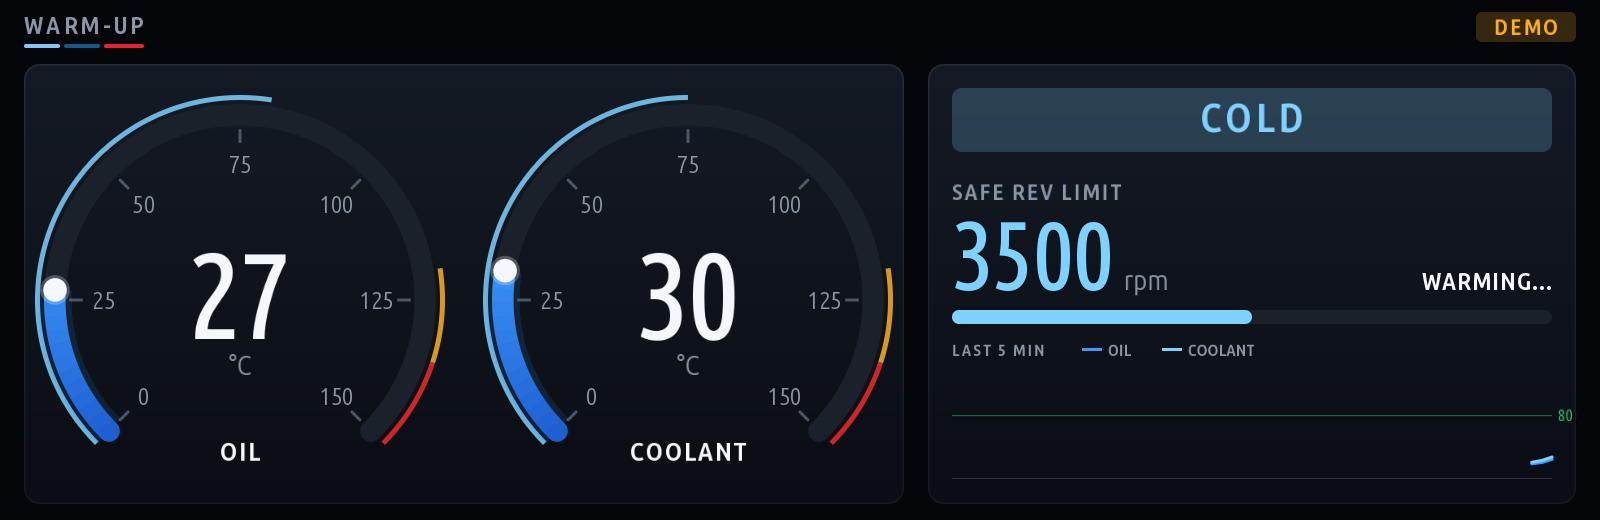
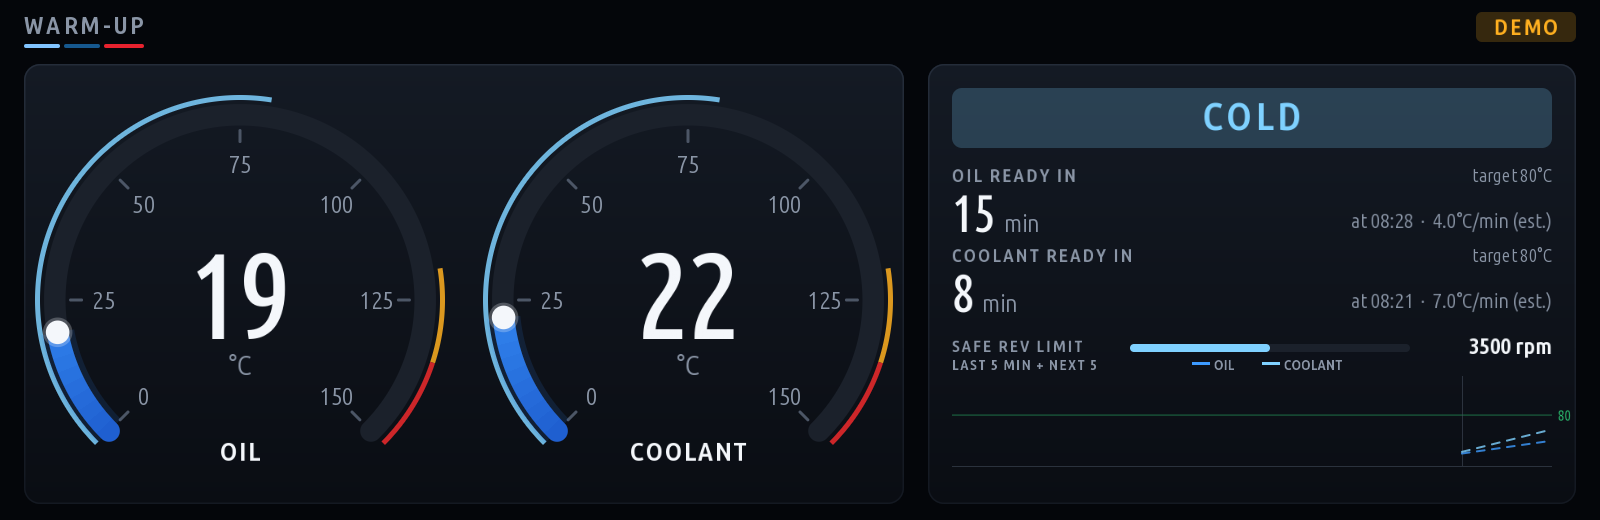
Warm-Up 1.1: warm-up calculator and a turbo cool-down that triggers
- Time to working temperature for oil and coolant (minutes + clock time),
  measured rate blended with typical driving / idle rates for the first
  2 minutes, "engine off" for electric driving, "not warming"; dashed
  projection on the trend graph; new "Coolant is warm at" setting
- Turbo cool-down: hard use = above 3800 rpm or 90 kW (torque x rpm, new
  FES torque signal); 30 s - 3 min of cool-down depending on hard time,
  counts below 2800 rpm / 40 kW, big countdown; oil ETA stays visible
- README: Warm-Up description + screenshot

Claude-Session: https://claude.ai/code/session_01G89YVjbLtqWwckvonFV4nZ

diff --git a/apps/warmup/main.js b/apps/warmup/main.js
@@ -3,11 +3,13 @@
  * Warm-Up - know when the engine is ready to be used, and when it has cooled.
  *
  *   - oil + coolant gauges (oil is what matters: it lags coolant by minutes)
+ *   - warm-up calculator: minutes and clock time until oil / coolant are warm,
+ *     from the measured warm-up rate (typical rates until enough is measured),
+ *     projected on the trend graph; "engine off" when a hybrid drives electric
  *   - safe rev limit that climbs from the cold limit to the redline with oil temp
- *   - ETA to "ready" from the current warm-up rate
  *   - 20-minute temperature trend
- *   - turbo cool-down: after hard driving, counts gentle driving / idle time
- *     before it's kind to switch off
+ *   - turbo cool-down: hard driving (high rpm or high power) builds up a cool-down
+ *     time (30 s - 3 min) that counts down while driving gently or idling
  */
 const mgu = require('./kit/mgu');
 const { Canvas, withAlpha } = require('./kit/canvas');
@@ -16,33 +18,51 @@ const Car = require('./kit/car');
 
 const W = 1600, H = 520;
 const GO = '#2fd27a';
-const COOL_NEED = 60;            // s of gentle running after hard use
+const HARD_RPM = 3800, HARD_KW = 90;       // above either = hard use (heats the turbo)
+const GENTLE_RPM = 2800, GENTLE_KW = 40;   // below both = cooling down
+const COOL_MIN = 30, COOL_MAX = 180;       // s of cool-down, growing with the hard-use time
+// typical warm-up rates (deg C / min) until enough has been measured
+const TYPICAL = { oil: { drive: 4, idle: 1.5 }, coolant: { drive: 7, idle: 3 } };
 
 mgu.run({
     async start(ctx) {
-        const { ui, settings, log } = ctx;
-        const car = new Car(ctx, ['rpm', 'speed', 'temps']);
+        const { ui, settings } = ctx;
+        const car = new Car(ctx, ['rpm', 'speed', 'temps', 'torque']);
 
         /* ---------- tracking ---------- */
         const hist = [];             // [t, oil, coolant] every 5 s, 20 min
-        let lastHist = 0, hardMs = 0, lastT = 0, cool = 0, wasHard = 0;
+        let lastHist = 0, lastT = 0;
+        // cool-down: hardS = seconds of hard use; needS = cool-down it asks for; cool = gentle seconds done
+        let hardS = 0, needS = 0, cool = 0, doneAt = 0;
         car.onSample((d, t) => {
-            const dt = lastT ? Math.min(250, t - lastT) : 0; lastT = t;
+            const dt = lastT ? Math.min(250, t - lastT) / 1000 : 0; lastT = t;
             if (G.isNum(d.rpm)) {
-                // "hard" = high revs; decays slowly so one blast doesn't count forever
-                if (d.rpm > 4500) { hardMs += dt; wasHard = t; } else hardMs = Math.max(0, hardMs - dt * 0.1);
-                if (hardMs > 20000 && d.rpm < 2800) cool += dt / 1000; else if (d.rpm >= 3500) cool = 0;
-                if (cool >= COOL_NEED + 30) { hardMs = 0; cool = 0; }
+                const kw = G.isNum(d.torque) ? d.torque * d.rpm / 9549 : 0;
+                const hard = d.rpm > HARD_RPM || kw > HARD_KW;
+                const gentle = d.rpm < GENTLE_RPM && kw < GENTLE_KW;
+                if (hard) {
+                    hardS += dt; cool = 0; doneAt = 0;
+                    if (hardS > 8) needS = G.clamp(COOL_MIN + hardS * 3, COOL_MIN, COOL_MAX);
+                } else if (needS > 0 && gentle) {
+                    cool += dt;
+                    if (cool >= needS && !doneAt) doneAt = t;
+                } else if (!needS) {
+                    hardS = Math.max(0, hardS - dt * 0.2);      // short bursts fade away
+                }
+                // "cooled" message stays for 20 s, then all clear
+                if (doneAt && t - doneAt > 20000) { hardS = 0; needS = 0; cool = 0; doneAt = 0; }
             }
             if (t - lastHist > 5000 && (G.isNum(d.oil) || G.isNum(d.coolant))) {
-                lastHist = t; hist.push([t, d.oil, d.coolant]);
+                lastHist = t; hist.push([t, d.oil, d.coolant, d.rpm, d.speed]);
                 while (hist.length > 240) hist.shift();
             }
-        }, () => { hist.length = 0; hardMs = 0; cool = 0; });
+        }, () => { hist.length = 0; hardS = 0; needS = 0; cool = 0; doneAt = 0; });
 
         const F = () => settings.get('tempUnit') === 'f';
         const T = (c) => (G.isNum(c) ? (F() ? c * 9 / 5 + 32 : c) : null);
         const tU = () => (F() ? '°F' : '°C');
+        const pad = (n) => (n < 10 ? '0' : '') + n;
+        const clock = (ms) => { const x = new Date(ms); return pad(x.getHours()) + ':' + pad(x.getMinutes()); };
 
         function limit(oil) {
             const warm = settings.get('warmOil'), red = settings.get('redline'), cold = Math.min(settings.get('coldLimit'), red);
@@ -51,24 +71,60 @@ mgu.run({
             return Math.round((cold + (red - cold) * G.clamp((oil - 30) / (warm - 30), 0, 1)) / 100) * 100;
         }
 
-        /** °C per minute over the last ~2 min (least squares). */
-        function rate(idx) {
-            const pts = hist.filter((h) => G.isNum(h[idx]) && hist[hist.length - 1][0] - h[0] < 120000);
-            if (pts.length < 4) return null;
+        /** deg C per minute over the last ~3 min (least squares) and the time it covers (ms). */
+        function measured(idx) {
+            const last = hist.length ? hist[hist.length - 1][0] : 0;
+            const pts = hist.filter((h) => G.isNum(h[idx]) && last - h[0] < 180000);
+            if (pts.length < 4) return { rate: null, span: 0 };
             const n = pts.length, mx = pts.reduce((a, p) => a + p[0], 0) / n, my = pts.reduce((a, p) => a + p[idx], 0) / n;
             let num = 0, den = 0;
             pts.forEach((p) => { num += (p[0] - mx) * (p[idx] - my); den += (p[0] - mx) * (p[0] - mx); });
-            return den ? num / den * 60000 : null;
+            return { rate: den ? num / den * 60000 : null, span: pts[n - 1][0] - pts[0][0] };
+        }
+
+        /**
+         * Warm-up estimate for 'oil' / 'coolant': { state, min, rate, est }.
+         * state: ready | warming | off (engine not running) | stalled (not getting warmer).
+         * The typical rate is blended into the measured one over the first 2 minutes (est = mostly typical).
+         */
+        function eta(key, temp, target, d) {
+            if (!G.isNum(temp)) return { state: 'none' };
+            if (temp >= target) return { state: 'ready' };
+            if (G.isNum(d.rpm) && d.rpm < 300) return { state: 'off' };
+            const m = measured(key === 'oil' ? 1 : 2);
+            const typ = TYPICAL[key][G.isNum(d.speed) && d.speed > 10 ? 'drive' : 'idle'];
+            const w = G.clamp(m.span / 120000, 0, 1);
+            const rate = G.isNum(m.rate) ? w * m.rate + (1 - w) * typ : typ;
+            if (w > 0.8 && rate < 0.15) return { state: 'stalled', rate };
+            const min = (target - temp) / Math.max(0.15, rate);
+            return { state: 'warming', min, rate, est: w < 0.5 };
         }
 
         /* ---------- drawing ---------- */
         function gauge(cv, t, cx, cy, r, val, label, warm) {
-            const toU = (c) => T(c);
             G.radial(cv, t, cx, cy, r, {
-                value: toU(val), min: toU(0), max: toU(150), label, unit: tU(), decimals: 0, ticks: 6, majorEvery: 1,
-                zones: [{ from: toU(0), to: toU(warm - 0.01), color: 'cold' }, { from: toU(120), to: toU(135), color: 'warn' }, { from: toU(135), to: toU(150), color: 'crit' }],
+                value: T(val), min: T(0), max: T(150), label, unit: tU(), decimals: 0, ticks: 6, majorEvery: 1,
+                zones: [{ from: T(0), to: T(warm - 0.01), color: 'cold' }, { from: T(120), to: T(135), color: 'warn' }, { from: T(135), to: T(150), color: 'crit' }],
                 tickLabels: true,
             });
+        }
+
+        /** One "ready in" row: label, big minutes, clock time + rate on the right. */
+        function etaRow(cv, t, y, label, e, target) {
+            cv.text(label, 952, y, 18, t.dim, { font: 'bold', spacing: 2 });
+            let big, col = t.text, right = '', unit = '';
+            if (e.state === 'ready') { big = 'READY'; col = GO; }
+            else if (e.state === 'off') { big = 'ENGINE OFF'; col = t.dim; right = 'not warming (electric driving)'; }
+            else if (e.state === 'stalled') { big = 'NOT WARMING'; col = t.warn; right = 'drive to warm up faster'; }
+            else if (e.state === 'warming') {
+                big = e.min > 60 ? '>60' : '~' + Math.max(1, Math.round(e.min)); unit = 'min';
+                right = 'at ' + clock(Date.now() + e.min * 60000) + '  ·  ' + (F() ? e.rate * 1.8 : e.rate).toFixed(1) + tU() + '/min' + (e.est ? ' (est.)' : '');
+            } else { big = '--'; col = t.dim; }
+            // the large number font has digits and a few letters only: words in bold, minutes in num + 'min'
+            const bw = cv.text(big, 952, y + 50, unit ? 52 : 40, col, { font: unit || big === '--' ? 'num' : 'bold', spacing: unit ? 0 : 1 });
+            if (unit) cv.text(unit, 960 + bw, y + 50, 24, t.dim);
+            if (right) cv.text(right, 1552, y + 46, 20, t.dim, { align: 'right' });
+            cv.text('target ' + Math.round(T(target)) + tU(), 1552, y, 18, t.dim, { align: 'right' });
         }
 
         function render() {
@@ -80,69 +136,89 @@ mgu.run({
                 cv.roundRect(W - 124, 12, 100, 30, 6, withAlpha(t.warn, 0.2));
                 cv.text('DEMO', W - 74, 35, 22, t.warn, { align: 'center', font: 'bold', spacing: 2 });
             }
-            const warm = settings.get('warmOil');
+            const warm = settings.get('warmOil'), warmC = settings.get('warmCoolant');
             G.panel(cv, t, 24, 64, 880, 440, null);
             gauge(cv, t, 240, 300, 196, d.oil, 'Oil', warm);
-            gauge(cv, t, 688, 300, 196, d.coolant, 'Coolant', 75);
+            gauge(cv, t, 688, 300, 196, d.coolant, 'Coolant', warmC);
 
             // ---- status panel
             G.panel(cv, t, 928, 64, 648, 440, null);
             const lim = limit(d.oil);
             const ready = G.isNum(d.oil) && d.oil >= warm;
             const hot = G.isNum(d.oil) && d.oil > 125;
-            const cooling = settings.get('cooldown') && hardMs > 20000;
+            const cooling = settings.get('cooldown') && needS > 0;
             let st, col;
             if (!G.isNum(d.oil)) { st = 'NO OIL TEMP'; col = t.dim; }
             else if (hot) { st = 'OIL HOT - EASE OFF'; col = t.crit; }
-            else if (cooling) { st = cool >= COOL_NEED ? 'COOLED - OK TO SWITCH OFF' : 'COOL DOWN'; col = cool >= COOL_NEED ? GO : t.warn; }
+            else if (cooling) { st = doneAt ? 'COOLED - OK TO SWITCH OFF' : 'TURBO COOL-DOWN'; col = doneAt ? GO : t.warn; }
             else if (ready) { st = 'READY'; col = GO; }
             else if (d.oil >= warm - 20) { st = 'WARMING UP'; col = t.warn; }
             else { st = 'COLD'; col = t.cold; }
-            cv.roundRect(952, 88, 600, 64, 10, withAlpha(col, 0.22));
-            if (st === 'READY') cv.roundRect(952, 88, 600, 64, 10, withAlpha(col, 0.15 + 0.1 * Math.sin(now / 400)));
-            cv.text(st, 1252, 132, st.length > 14 ? 30 : 40, col, { align: 'center', font: 'bold', spacing: 3 });
+            cv.roundRect(952, 88, 600, 60, 10, withAlpha(col, 0.22));
+            if (st === 'READY') cv.roundRect(952, 88, 600, 60, 10, withAlpha(col, 0.15 + 0.1 * Math.sin(now / 400)));
+            cv.text(st, 1252, 130, st.length > 14 ? 30 : 38, col, { align: 'center', font: 'bold', spacing: 3 });
 
             if (cooling) {
-                const left = Math.max(0, COOL_NEED - cool);
-                cv.text('GENTLE RUNNING / IDLE', 952, 200, 22, t.dim, { font: 'bold', spacing: 2 });
-                cv.text(left > 0 ? Math.ceil(left) + ' s' : 'done', 952, 290, 96, left > 0 ? t.text : GO, { font: 'num' });
-                cv.text('keep under 2800 rpm to let the turbo and oil cool', 952, 330, 20, t.dim);
+                // big countdown: gentle driving / idling cools the turbo and oil
+                const left = Math.max(0, needS - cool);
+                const gentleNow = G.isNum(d.rpm) && d.rpm < GENTLE_RPM;
+                // the oil warm-up stays visible as one line
+                const eo = eta('oil', d.oil, warm, d);
+                const line = eo.state === 'ready' ? 'Oil warm' : eo.state === 'warming' ? 'Oil ready in ~' + Math.max(1, Math.round(eo.min)) + ' min (at ' + clock(now + eo.min * 60000) + ')'
+                    : eo.state === 'off' ? 'Engine off - oil not warming' : eo.state === 'stalled' ? 'Oil not warming' : '';
+                cv.text(line, 952, 182, 20, eo.state === 'ready' ? GO : t.dim, { font: 'bold' });
+                cv.text('COOL-DOWN LEFT', 952, 216, 18, t.dim, { font: 'bold', spacing: 2 });
+                const lw = cv.text(left > 0 ? String(Math.ceil(left)) : '0', 952, 292, 80, left > 0 ? t.text : GO, { font: 'num' });
+                cv.text('s', 962 + lw, 292, 30, t.dim);
+                cv.text(left > 0 ? (gentleNow ? 'counting - keep it gentle' : 'paused - under ' + GENTLE_RPM + ' rpm to count') : 'done', 1552, 252, 22, left > 0 && !gentleNow ? t.warn : t.text, { align: 'right', font: 'bold' });
+                cv.text('after ' + Math.round(hardS) + ' s of hard driving', 1552, 282, 20, t.dim, { align: 'right' });
+                const f = needS ? G.clamp(cool / needS, 0, 1) : 1;
+                cv.roundRect(952, 306, 600, 12, 6, t.track);
+                if (f > 0) cv.rampRect(952, 306, Math.max(12, 600 * f), 12, 6, [t.warn, GO], 952, 600);
             } else {
-                cv.text('SAFE REV LIMIT', 952, 200, 22, t.dim, { font: 'bold', spacing: 2 });
-                const lw = cv.text(lim ? String(lim) : '----', 952, 290, 96, ready ? t.text : col, { font: 'num' });
-                cv.text('rpm', 962 + lw, 290, 28, t.dim);
-                const r = rate(1);
-                let eta = 'ready';
-                if (!ready) eta = G.isNum(r) && r > 0.2 ? '~' + Math.max(1, Math.round((warm - d.oil) / r)) + ' min to ready' : 'warming...';
-                cv.text(eta.toUpperCase(), 1552, 290, 24, ready ? GO : t.text, { align: 'right', font: 'bold', spacing: 1 });
-                if (G.isNum(r)) cv.text((r >= 0 ? '+' : '') + (F() ? r * 1.8 : r).toFixed(1) + tU() + ' / min', 1552, 254, 20, t.dim, { align: 'right', font: 'bold' });
-                // limit bar
-                const red = settings.get('redline'), f = lim ? lim / red : 0;
-                cv.roundRect(952, 310, 600, 14, 7, t.track);
-                if (f > 0) cv.roundRect(952, 310, 600 * f, 14, 7, ready ? GO : col);
+                etaRow(cv, t, 182, 'OIL READY IN', eta('oil', d.oil, warm, d), warm);
+                etaRow(cv, t, 262, 'COOLANT READY IN', eta('coolant', d.coolant, warmC, d), warmC);
             }
 
-            // ---- trend
-            const gx = 952, gy = 360, gw = 600, gh = 110;
+            // ---- safe rev limit (always) + trend
+            const red = settings.get('redline'), fl = lim ? lim / red : 0;
+            cv.text('SAFE REV LIMIT', 952, 352, 16, t.dim, { font: 'bold', spacing: 2 });
+            cv.text(lim ? lim + ' rpm' : '---- rpm', 1552, 354, 22, ready ? GO : t.text, { align: 'right', font: 'bold' });
+            cv.roundRect(1130, 344, 280, 8, 4, t.track);
+            if (fl > 0) cv.roundRect(1130, 344, 280 * fl, 8, 4, ready ? GO : col);
+
+            const gx = 952, gy = 376, gw = 600, gh = 90;
             const now0 = hist.length ? hist[hist.length - 1][0] : now;
             const span = G.clamp(hist.length ? now0 - hist[0][0] : 0, 300000, 1200000);
-            cv.text('LAST ' + Math.round(span / 60000) + ' MIN', gx, gy - 4, 16, t.dim, { font: 'bold', spacing: 2 });
-            cv.fillRect(gx + 130, gy - 12, 20, 3, t.accent); cv.text('OIL', gx + 156, gy - 4, 16, t.dim, { font: 'bold' });
-            cv.fillRect(gx + 210, gy - 12, 20, 3, t.cold); cv.text('COOLANT', gx + 236, gy - 4, 16, t.dim, { font: 'bold' });
+            const ahead = 300000;                                  // projection: up to 5 min ahead
             const lo = 0, hi = 140;
-            const X = (ts) => gx + gw - ((now0 - ts) / span) * gw, Y = (c) => gy + 8 + gh - (G.clamp(c, lo, hi) - lo) / (hi - lo) * gh;
+            const X = (ts) => gx + (gw - 90) - ((now0 - ts) / span) * (gw - 90), Y = (c) => gy + gh - (G.clamp(c, lo, hi) - lo) / (hi - lo) * gh;
+            cv.text('LAST ' + Math.round(span / 60000) + ' MIN + NEXT 5', gx, gy - 6, 14, t.dim, { font: 'bold', spacing: 1.5 });
+            cv.fillRect(gx + 240, gy - 14, 18, 3, t.accent); cv.text('OIL', gx + 262, gy - 6, 14, t.dim, { font: 'bold' });
+            cv.fillRect(gx + 310, gy - 14, 18, 3, t.cold); cv.text('COOLANT', gx + 332, gy - 6, 14, t.dim, { font: 'bold' });
             cv.fillRect(gx, Y(warm), gw, 1, withAlpha(GO, 0.5));
-            cv.text(String(Math.round(T(warm))), gx + gw + 6, Y(warm) + 6, 16, GO);
-            [[1, t.accent], [2, t.cold]].forEach(([i, c]) => {
+            cv.text(String(Math.round(T(warm))), gx + gw + 6, Y(warm) + 6, 14, GO);
+            cv.fillRect(gx + gw - 90, gy, 1, gh, withAlpha(t.tick, 0.5));       // "now"
+            [[1, t.accent, 'oil', warm, d.oil], [2, t.cold, 'coolant', warmC, d.coolant]].forEach(([i, c, key, target, cur]) => {
                 const pts = hist.filter((h) => G.isNum(h[i])).map((h) => [X(h[0]), Y(h[i])]);
                 if (pts.length > 1) cv.polyline(pts, 3, c);
+                // projection to the target, dashed
+                const e = eta(key, cur, target, d);
+                if (e.state === 'warming' && pts.length) {
+                    const x0 = gx + gw - 90, y0 = Y(cur), mins = Math.min(e.min, ahead / 60000);
+                    const x1 = x0 + (mins * 60000 / ahead) * 90, y1 = Y(cur + e.rate * mins);
+                    for (let k = 0; k < 6; k++) {
+                        const a = k / 6, b = (k + 0.5) / 6;
+                        cv.line(x0 + (x1 - x0) * a, y0 + (y1 - y0) * a, x0 + (x1 - x0) * b, y0 + (y1 - y0) * b, 2, withAlpha(c, 0.8));
+                    }
+                }
             });
-            cv.fillRect(gx, gy + 8 + gh, gw, 1, withAlpha(t.tick, 0.5));
+            cv.fillRect(gx, gy + gh, gw, 1, withAlpha(t.tick, 0.5));
             return ui.image('MAIN_GFX', cv);
         }
 
         let loop = ctx.loop('MAIN', settings.get('fps'), render);
         settings.onChange((k) => { if (k === 'fps') { loop.stop(); loop = ctx.loop('MAIN', settings.get('fps'), render); } });
-        render().then(() => log.info('first frame done')).catch((e) => log.warn('first render: ' + e));
+        render().then(() => ctx.log.info('first frame done')).catch((e) => ctx.log.warn('first render: ' + e));
     },
 });

diff --git a/README.md b/README.md
@@ -15,7 +15,7 @@ Everything can be removed again with one command.
 | ![M Vitals chassis](docs/screens/m_vitals_chassis.png)<br>**M Vitals**: g-force, tyre pressures + temperatures, xDrive | ![Redline](docs/screens/redline.png)<br>**Redline**: shift lights, gear, shift scoring |
 | ![G-Force](docs/screens/gforce.png)<br>**G-Force**: friction circle, peaks, records | ![Virtual Dyno](docs/screens/dyno.png)<br>**Virtual Dyno**: power and torque curve |
 | ![Brake Test](docs/screens/brake_test.png)<br>**Brake Test**: 100-0 distance, deceleration, fade | ![Drag Timer](docs/screens/draggy.png)<br>**Drag Timer**: splits, ¼ mile, speed trace |
-| ![Warm-Up](docs/screens/warmup.png)<br>**Warm-Up**: oil / coolant, safe rev limit | ![Fault Scanner](docs/screens/dtc_scanner.png)<br>**Fault Scanner**: fault codes of every control unit |
+| ![Warm-Up](docs/screens/warmup.png)<br>**Warm-Up**: time to working temperature, safe rev limit, turbo cool-down | ![Fault Scanner](docs/screens/dtc_scanner.png)<br>**Fault Scanner**: fault codes of every control unit |
 
 *(Screenshots from the PC preview (`kit/tools/preview.js`) with each app's built-in demo data, in
 the default M Tricolour theme. Every app also has M Red, Ice White and Night Amber, picked from
@@ -56,7 +56,7 @@ the unit and kept across reboots.
 | **Brake Test** | 100-0 and 200-0 km/h (or 60-0 and 100-0 mph): distance, time, peak deceleration and a deceleration trace. The start crossing is interpolated between samples, so results don't depend on the sample rate. A brake-fade chart compares your last stops and warns when distances grow. Bests plus full history. |
 | **Drag Timer** | 0-50, 0-100, 100-200, 0-200 km/h and ¼ mile (or mph equivalents), with interpolated splits, optional one-foot rollout, a live speed trace and saved best times. |
 | **G-Force** | Friction circle with a fading trail and a grip envelope that grows as you use more grip in each direction. Live lateral/longitudinal bars, session peaks per direction, time spent above 0.5 g, all-time records. |
-| **Warm-Up** | Oil and coolant gauges, a safe rev limit that rises with oil temperature, an estimate of minutes until the engine is ready, a temperature trend graph, and a turbo cool-down countdown after hard driving. |
+| **Warm-Up** | Oil and coolant gauges and a warm-up calculator: minutes and clock time until oil and coolant reach working temperature, from the measured warm-up rate (typical rates until enough is measured, "engine off" when a hybrid drives electric), projected on a temperature trend graph. A safe rev limit that rises with oil temperature, and a turbo cool-down countdown after hard driving (high rpm or high power: 30 s to 3 min of gentle driving, depending on how long you drove hard). |
 | **M Vitals** | A sport cluster: rpm, boost, speed with the gear (D / S / M + number), power from the iDrive sport display (its % × your car's max power, so stock or tuned engines both read right; kW, hp or PS) and torque, coolant and oil temperature, g-forces and more, over several pages, with peak values.  An Intake & fuel page shows intake air temperature (IAT), high-pressure fuel (HPFP / rail) and low-pressure fuel (LPFP) pressure, read from the DME over UDS (standard OBD data IDs, adjustable in `app.json` config.dme), plus how much warmer the intake air is than outside. Tyre pressures (against the car's target) and temperatures are shown large on the Chassis page; its xDrive card can be set to Auto (shown once the car reports all-wheel drive), Show or Hide for rear-wheel-drive cars. Dials run from blue to red as they near the redline / boost limit. |
 | **Fault Scanner** | Scans every control unit for stored fault codes (UDS over the head unit's diagnostic gateway), shows them per module with status, shows live Check Control messages, and can clear fault memories (two-press confirm). |
 | **eDrive** | For plug-in hybrids / EVs: real electric range from the battery's charge and the outside temperature (a full battery gives 50 km at 20 °C, 40-45 km at 10 °C, 30-38 km at 0 °C, 20-30 km at -10 °C, scaled to your own 20 °C range), shown with its low-high spread, battery health (SOH: how much a full charge holds compared to new, in % and kWh) and the energy in the battery now (kWh; the battery size when new is a setting, e.g. 12 kWh for a 330e / 530e, 24 kWh for an X5 45e). Also shows the last HV battery charge (+%, kWh, km added; a charge done while the head unit slept shows at the next start) and the 12 V battery voltage. A charge log page lists every charge (date, % and kWh added, range added, cost from your electricity price, 0.25 €/kWh by default) with monthly / all-time totals and a 14-day chart. On a car without a hybrid system it detects that the battery unit never answers and shows only the 12 V battery (or set Hybrid system = No). Charge and SOH are read from the battery control unit over UDS; a Diagnostics page shows the raw replies so the DIDs can be adjusted per model in `app.json`. |
